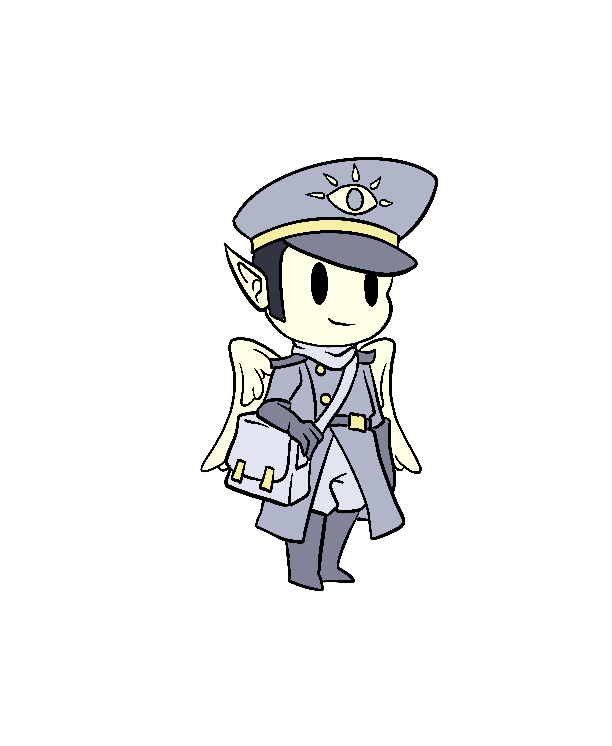
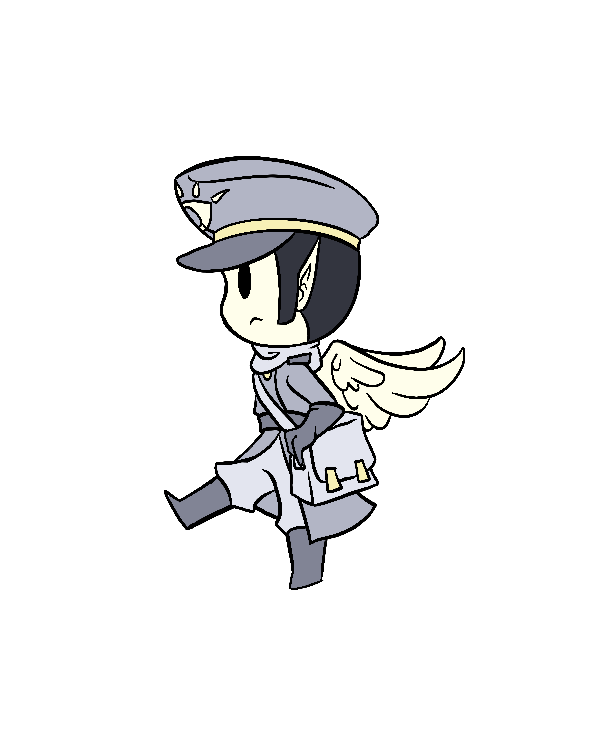
feat: full player movement synced with animations, idle, walk, sprint, jump

Changed region(s): [[0.2484, 0.185, 0.7761, 0.8016]]

diff --git a/res/scripts/controllers/platforming/Player.cs b/res/scripts/controllers/platforming/Player.cs
@@ -4,6 +4,7 @@ using Godot;
 using System;
 using System.ComponentModel;
 using System.Data;
+using System.Numerics;
 
 /*
 
@@ -16,6 +17,7 @@ Player movement:
 	When input is "right" character sprite should face right
 		
 */
+
 
 public enum State
 {
@@ -37,6 +39,7 @@ public partial class Player : CharacterBody2D
 	private float _gravityDefault;
 	private State _state;
 	private AnimatedSprite2D _playerSprite;
+	private CharacterBody2D _charcterBody;
 
 	public override void _Ready()
 	{
@@ -49,15 +52,23 @@ public partial class Player : CharacterBody2D
 
 	public override void _Process(double delta)
 	{
-		Vector2 movementInput = GetMovementInput();
+		ChangePlayerOrientation();
 
-		if (movementInput.X > 0 & !IsSprinting())
-		{
-			_playerSprite.Play("walk");
-		}
-		else
+		if (IsIdle())
 		{
 			_playerSprite.Play("idle");
+		}
+		else if (IsSprinting())
+		{
+			_playerSprite.Play("sprint");
+		}
+		else if (IsJumping())
+		{
+			_playerSprite.Play("jump");
+		}
+		else if (IsWalking())
+		{
+			_playerSprite.Play("walk");
 		}
 	}
 
@@ -65,19 +76,9 @@ public partial class Player : CharacterBody2D
 	{
 		float fDelta = (float)delta;
 
-		Vector2 movementInput = GetMovementInput();
+		Godot.Vector2 movementInput = GetMovementInput();
 
-		// flip sprite orientation horizontally
-		if (movementInput.X > 0)
-		{
-			_playerSprite.FlipH = true;
-		}
-		else if (movementInput.X < 0)
-		{
-			_playerSprite.FlipH = false;
-		}
-
-		Vector2 vel = Velocity;
+		Godot.Vector2 vel = Velocity;
 
 		if (IsOnFloor())
 		{
@@ -105,7 +106,7 @@ public partial class Player : CharacterBody2D
 			case State.GROUNDED:
 				_coyoteTimer = _coyoteBuffer;
 				vel.X = (float)Mathf.Lerp(vel.X, 0, 0.157);
-				if (IsSprinting())
+				if (GetSprintInput())
 				{
 					vel += movementInput * accelerationRate * _sprintSpeed * _accelerationStrength;
 				}
@@ -125,7 +126,6 @@ public partial class Player : CharacterBody2D
 
 				if (GetJumpInput() && _coyoteTimer >= 0)
 				{
-					vel.Y = -_jumpSpeed;
 					_coyoteTimer = 0f;
 				}
 
@@ -133,9 +133,13 @@ public partial class Player : CharacterBody2D
 				vel.X += movementInput.X * accelerationRate * _walkSpeed * _accelerationStrength;
 
 				if (vel.Y < 0)
+				{
 					vel.Y += _gravityDefault * fDelta;
+				}
 				else
+				{
 					vel.Y += _gravityDefault * _gravityFallMultiplier * fDelta;
+				}
 
 				break;
 		}
@@ -145,14 +149,12 @@ public partial class Player : CharacterBody2D
 		MoveAndSlide();
 	}
 
-	public void _Process()
-	{ }
-
-	private Vector2 GetMovementInput()
+	private Godot.Vector2 GetMovementInput()
 	{
-		Vector2 movement = new();
+		Godot.Vector2 movement = new();
 
 		movement.X = Input.GetAxis("ui_left", "ui_right");
+		movement.Y = Input.GetAxis("ui_down", "ui_select");
 		return movement;
 	}
 
@@ -161,21 +163,71 @@ public partial class Player : CharacterBody2D
 		return Input.IsActionJustPressed("ui_select");
 	}
 
-	private bool IsSprinting()
+	private bool GetSprintInput()
 	{
 		return Input.IsActionPressed("ui_sprint");
 	}
 
-	private void PlayWalkingAnimation()
+	private bool IsSprinting()
 	{
-		if (Input.IsActionPressed("ui_right"))
+
+		if (IsOnFloor() && GetSprintInput())
 		{
-			_playerSprite.Play("walk");
+			return true;
 		}
-		else if (Input.IsActionPressed("ui_left"))
+		else
 		{
-			_playerSprite.Play("walk");
+			return false;
 		}
 	}
 
+	private bool IsWalking()
+	{
+		if (IsOnFloor() && !IsSprinting())
+		{
+			return true;
+		}
+		else
+		{
+			return false;
+		}
+	}
+
+	private bool IsIdle()
+	{
+		Godot.Vector2 movementInput = GetMovementInput();
+		if (movementInput.X == 0 && IsOnFloor())
+		{
+			return true;
+		}
+		else
+		{
+			return false;
+		}
+	}
+
+	private bool IsJumping()
+	{
+		if (!IsOnFloor())
+		{
+			return true;
+		}
+		else
+		{
+			return false;
+		}
+	}
+
+	private void ChangePlayerOrientation()
+	{
+		Godot.Vector2 movementInput = GetMovementInput();
+		if (movementInput.X > 0)
+		{
+			_playerSprite.FlipH = true;
+		}
+		else if (movementInput.X < 0)
+		{
+			_playerSprite.FlipH = false;
+		}
+	}
 }
